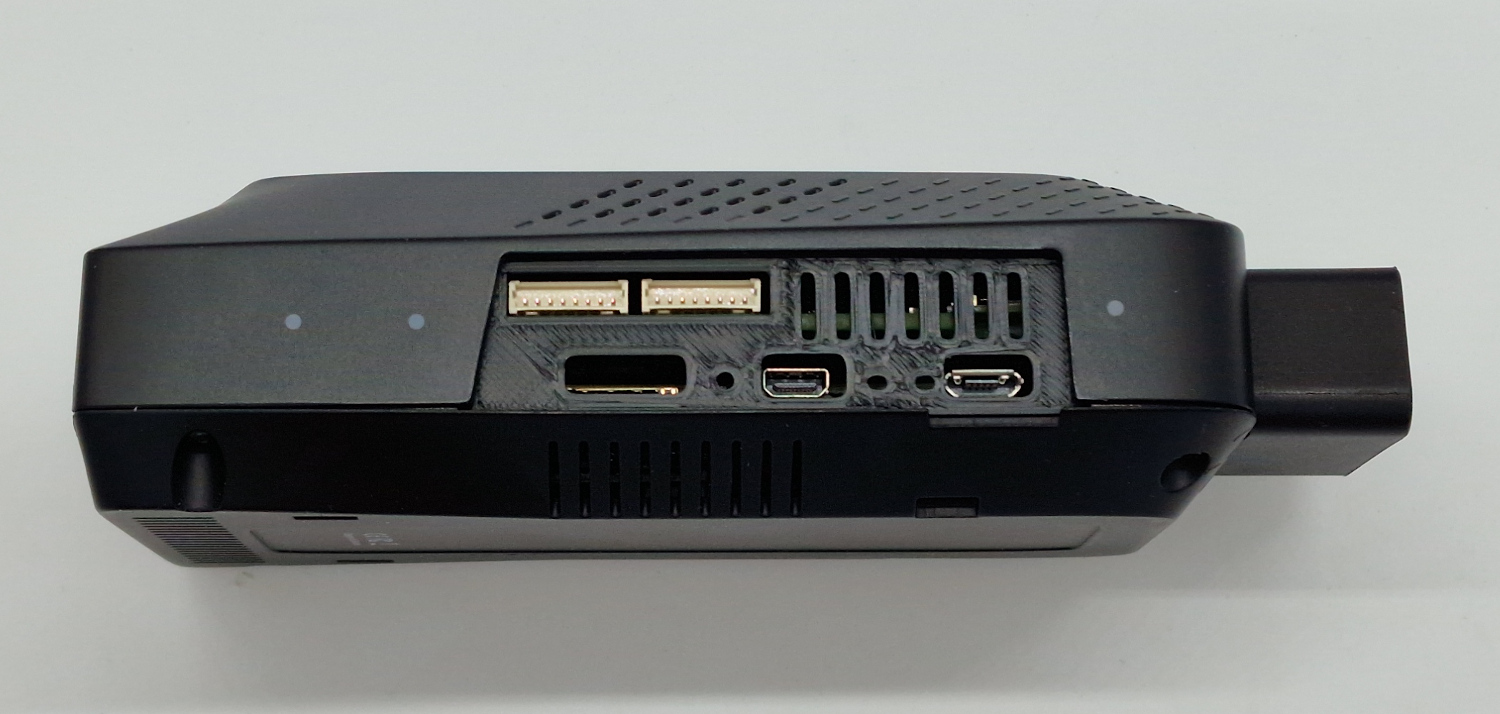
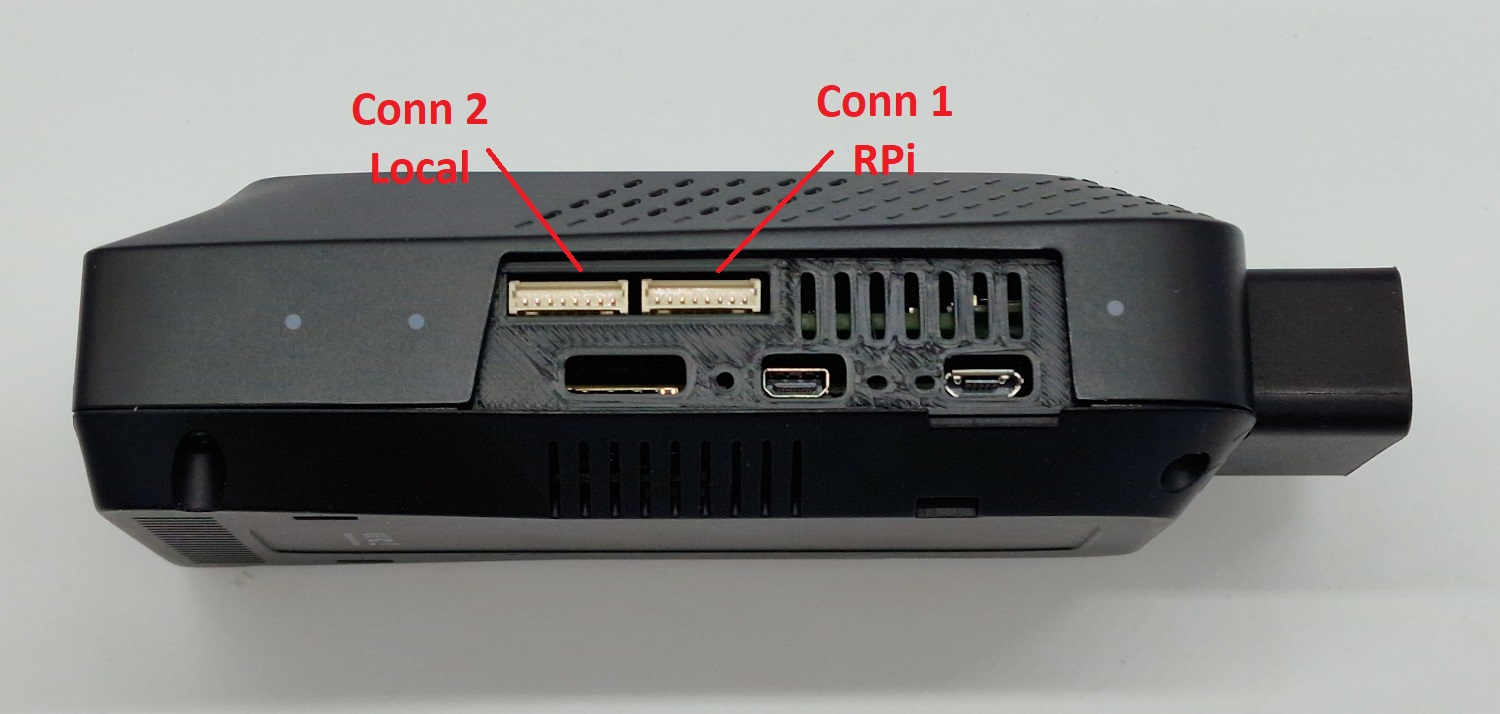
Added keyfob interface section. Added keyfob pinout section

diff --git a/sidebars.js b/sidebars.js
@@ -232,7 +232,9 @@ module.exports = {
                 {
                     "items": [
                         "hardware/accessories/keyfob-hat/keyfob-intro",
-                        "hardware/accessories/keyfob-hat/keyfob-hat",
+                        "hardware/accessories/keyfob-hat/keyfob-interface",                        
+                        "hardware/accessories/keyfob-hat/keyfob-hat-install",
+                        "hardware/accessories/keyfob-hat/keyfob-hat-pinout",                        
                     ],
                     "label": "Keyless entry",
                     "type": "category"

diff --git a/docs/hardware/accessories/keyfob-hat/keyfob-pinout.md b/docs/hardware/accessories/keyfob-hat/keyfob-pinout.md
@@ -1,0 +1,58 @@
+---
+id: keyfob-hat-pinout
+title: Keyfob HAT Pinout
+---
+import useBaseUrl from '@docusaurus/useBaseUrl';
+import SideBySide from '@site/src/components/SideBySide';
+
+:::note
+The keyless entry solution described here only works with the AutoPi TMU CM4 and newer editions
+:::
+
+The keyless keyfob extension HAT enables two new ports on the AutoPi device. These can be seen here during the install:
+
+<p align="center">
+<img src="/img/hardware/accessories/keyfob/keyfob_installed_top-pinout.jpg" alt="Keyfob HAT pinouts" width="60%" />
+</p>
+
+After assembly of the device, the ports can be seen from the picture below:
+
+<p align="center">
+<img src="/img/hardware/accessories/keyfob/keyfob_ports.jpg" alt="Keyfob HAT pinouts" width="60%" />
+</p>
+
+## Pinout Conn 1 - Local
+
+Connection 1 on the Keyfob HAT is controlled locally on the keyfob extension board. 
+
+The pinout for this connector is:
+
+| **Pin** | **Name** | **Description** | **Comments** |
+|:-----:|--------|--------|--------|
+|   1   |    Vcc3v3_switched    |   Controlable 3.3V power supply     | Controlled by HAT MCU | 
+|   2    |   GND     |  Internal Ground      | |
+|   3    |   Vcc5v_switched     |  Controlable 5V power supply      | Controlled by HAT MCU |
+|   4    |   DIO9     |  Digital Input/Output      | |
+|   5    |   DIO10     |   Directly connected to OBD pin     | |
+|   6    |   DIO3     |    Directly connected to OBD pin    | |
+|   7    |   DIO2     |  Directly connected to OBD pin      | |
+|   8    |   DIO0     |   Directly connected to OBD pin     | |
+
+
+## Pinout Conn 2 - Main
+Connection 2 on the Keyfob HAT is controlled from the AutoPi base board, by the standard AutoPi setup. 
+
+The pinout for this connector is:
+
+| **Pin** | **Name** | **Description** | **Comments** |
+|:-----:|--------|--------|--------|
+|   1   |    Vcc3v3_switched    |   Controlable 3.3V power supply     | Controlled by AutoPi base board | 
+|   2    |   GND     |  Internal Ground      | |
+|   3    |   Vcc5v_switched     |  Controlable 5V power supply      | Controlled by AutoPi base board |
+|   4    |   RPI_ID_SD     |  Digital Input/Output from RPi      | |
+|   5    |   RPI_GPIO24     |   Directly connected to OBD pin from RPi     | |
+|   6    |   RPI_ID_SC      |    Directly connected to OBD pin from RPi    | |
+|   7    |   RPI_GPIO27     |  Directly connected to OBD pin from RPi      | |
+|   8    |   RPI_GPIO23     |   Directly connected to OBD pin from RPi     | |
+
+

diff --git a/docs/hardware/accessories/keyfob-hat/interface-specifications.md b/docs/hardware/accessories/keyfob-hat/interface-specifications.md
@@ -1,0 +1,45 @@
+---
+id: keyfob-interface
+title: Keyless interface specification
+---
+
+:::caution
+The keyless entry solution described here only works with the AutoPi TMU CM4 and newer editions
+:::
+
+This section descripes the interface for the keyless keyfob solution provided through the BLE extension available through AutoPi. The BLE extension is a small extension board, which makes it possible to wake the AutoPi through a BLE connection and then send BLE commands to control a keyfob through the same interface. The BLE connection makes it possible to unlock/lock the car in areas where there is no internet connection. 
+
+
+## API for Key controls
+Commands can be sent from another system to the AutoPi server and there on to control the vehicle. 
+
+<p align="center">
+<img src="/img/hardware/accessories/keyfob/command_flow_1.jpg" alt="Keyfob command flow" width="60%" />
+</p>
+
+## Power Settings to optimize sleep scheduling
+It is possible to upload booking schedules to the AutoPi backend. These will be transformed into sleeping schedules for the AutoPi to ensure that the device is powered on at the correct times.
+
+<p align="center">
+<img src="/img/hardware/accessories/keyfob/power_settings_1.jpg" alt="Keyfob power settings control" width="60%" />
+</p>
+
+## Offline mode
+When the device is offline (not connected to LTE/GSM network), it is important that the user can still control the car. Therefore, a set of offline functions will be available through Bluetooth. 
+
+
+<p align="center">
+<img src="/img/hardware/accessories/keyfob/offline_mode_1.jpg" alt="Keyfob offline mode" width="60%" />
+</p>
+
+From an App it is possible to communicate directly with the device using BLE. 
+
+To ensure security, the device will have a rolling key pair needed for smartphones to be able to send the commands. This key needs to be synced to the smartphone during the booking, to allow unlock of the car. These keys will be distributed by the AutoPi backend and will be updated on the device and made available for the external system. 
+
+<p align="center">
+<img src="/img/hardware/accessories/keyfob/offline_mode_2.jpg" alt="Keyfob offline mode" width="60%" />
+</p>
+
+:::note
+For a more detailed description of the interface, please contact support@autop.io for full documentation. 
+:::

diff --git a/docs/hardware/accessories/keyfob-hat/index.md b/docs/hardware/accessories/keyfob-hat/index.md
@@ -9,7 +9,14 @@ title: Introduction
 The keyless entry solution described here only works with the AutoPi TMU CM4 and newer editions
 :::
 
-This guide provides a general technical overview of the AutoPi Keyless solution. Many different approaches to lock/unlock exist already, but with the solution from AutoPi, you receive an agnostic solution working across all make and models available. These are some of the benefits:
+
+This guide provides a general technical overview of the AutoPi Keyless solution. 
+
+<p align="center">
+<img src="/img/hardware/accessories/keyfob/command_flow_1.jpg" alt="Keyfob flow" width="60%" />
+</p>
+
+Many different approaches to lock/unlock exist already, but with the solution from AutoPi, you receive an agnostic solution working across all make and models available. These are some of the benefits:
 -	No wire cutting needed, which means your vehicle’s warranty is not voided 
 -	Easy and fast installation and removal
 -	Supports keyless ignition for vehicles with electronic start/stop technology

diff --git a/docs/hardware/accessories/keyfob-hat/keyfob-hat.md b/docs/hardware/accessories/keyfob-hat/keyfob-hat.md
@@ -1,5 +1,5 @@
 ---
-id: keyfob-hat
+id: keyfob-hat-install
 title: Keyfob HAT Install
 ---
 import useBaseUrl from '@docusaurus/useBaseUrl';
@@ -24,8 +24,6 @@ The keyless entry solution described here only works with the AutoPi TMU CM4 and
 
 
 ## Step-by-step guide
-
-
 
 ### Step 1
 Open up the AutoPi device by unscrewing the four screws at the bottom. 
